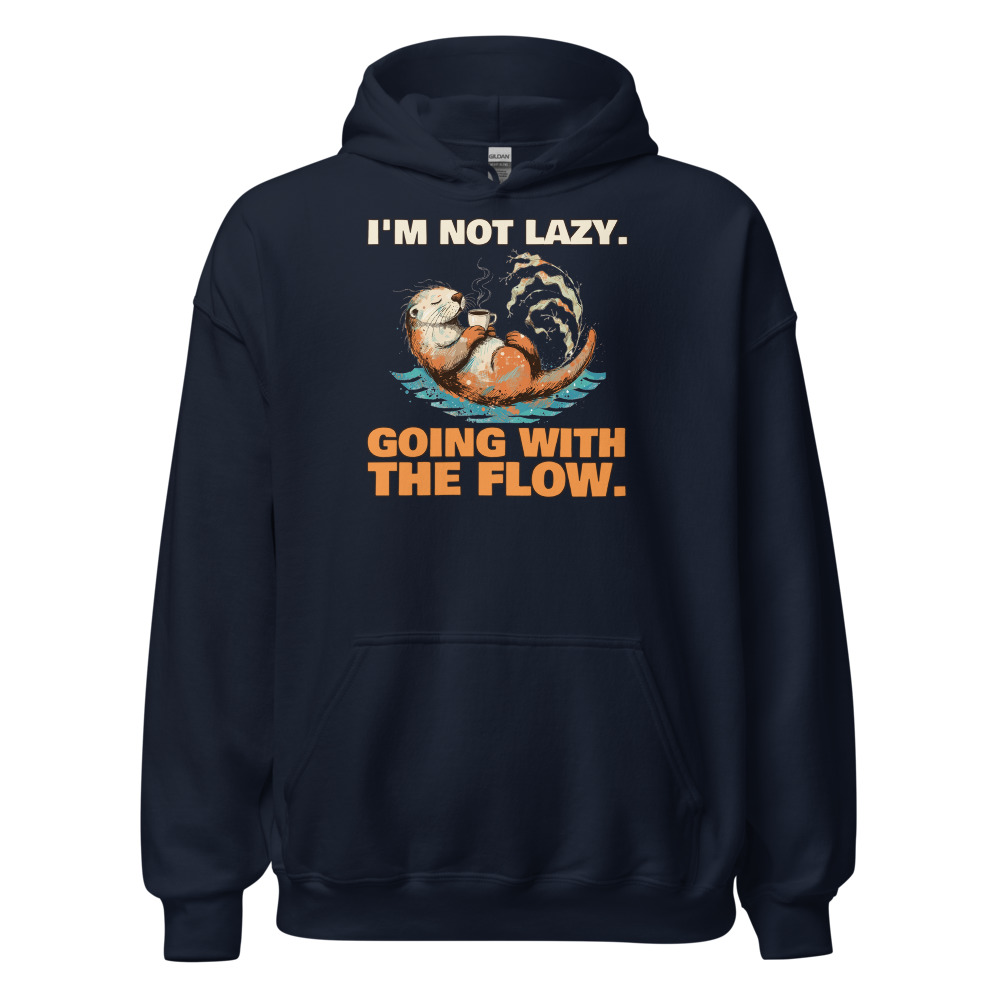
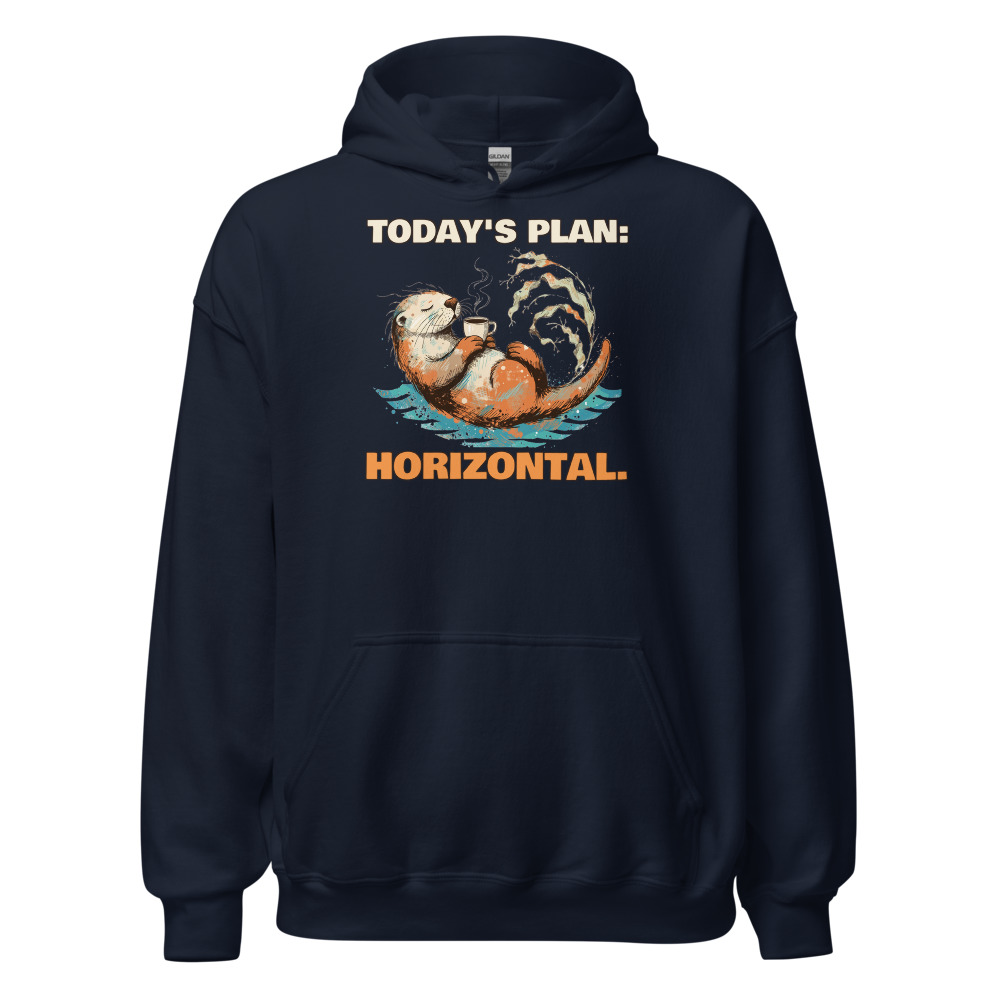
[C] review 397 (redo)
Claude-Session: https://claude.ai/code/session_01CCHcDj8LcJJ8qUPtKE3cvn

Changed region(s): [[0.341, 0.217, 0.651, 0.496]]

diff --git a/designs/c397/make.py b/designs/c397/make.py
@@ -1,9 +1,9 @@
 import sys; sys.path.insert(0,'.')
 from designs.lib import *
 im=Image.open('docs/print-files/397-currently-drifting.png').convert('RGBA'); W=im.width
-art=im.crop((0,685,W,3450)); art=art.crop(art.getbbox()); art=art.resize((int(art.width*0.8),int(art.height*0.8)),Image.LANCZOS)
+art=im.crop((0,685,W,3450)); art=art.crop(art.getbbox()); art=art.resize((int(art.width*0.92),int(art.height*0.92)),Image.LANCZOS)
 DK=(42,28,22,255); ORG=(224,112,44,255); DORG=(176,76,24,255); TEAL=(26,110,124,255)
 for tag,c1,k1,c2,k2,bg in (('sand',DK,CREAM,DORG,CREAM,(214,196,160,255)),('navy',CREAM,DK,(246,150,70,255),DK,(38,50,88,255))):
-    h1=line("I'M NOT LAZY.",'bowlby',0.97,W,c1,k1,kw=29); pa=line("GOING WITH",'bowlby',0.97,W,c2,k2,kw=29); pb=line("THE FLOW.",'bowlby',0.97,W,c2,k2,kw=29)
+    h1=line("TODAY'S PLAN:",'bowlby',0.97,W,c1,k1,kw=29); pa=line("HORIZONTAL.",'bowlby',0.985,W,c2,k2,kw=29); pb=pa
     print(tag,'headline px',h1.width,'punch px',pa.width,pb.width,'heights',h1.height,pa.height,pb.height,'art',art.size)
-    out=lockup(art,W,[h1],[pa,pb],f'397-v2-flow-{tag}',{tag:bg}); print(out.size,out.height/out.width)
+    out=lockup(art,W,[h1],[pa],f'397-v3-plan-{tag}',{tag:bg}); print(out.size,out.height/out.width)

diff --git a/docs/pipeline/397-otter-hoodie-currently-drifting.md b/docs/pipeline/397-otter-hoodie-currently-drifting.md
@@ -1,4 +1,4 @@
-status: BUILDING [C] 2026-10-20 08:25
+status: REVIEW
 shopify: gid://shopify/Product/15363406168368
 lane: C
 type: new
@@ -34,3 +34,4 @@ kd: 34
 - 2026-10-20 08:45 UTC director: REDO from docs/review/397.jpg (product stays ACTIVE; fix in place).
   1. R3.7.2 / R3.13: I'M NOT LAZY. is a stock template ("I'm not lazy, I'm ..." is on hundreds of listings) and GOING WITH THE FLOW. only describes the floating otter. Side by side with Oops. Anyway. / Wildly Low Maintenance it is weaker. Write 5 new lines in the otter's own deadpan voice (it is floating with a coffee: the joke is how unbothered it is) and keep the one a stranger laughs at in 3 seconds. Same art, $0.
   2. Keep the current type treatment (it works): punch at least as wide as the headline, log both widths (card 7h); retitle (card 7i).
+- 2026-10-20 08:30 UTC builder [C]: REDO round 2 per the director's 08:45 note (I'M NOT LAZY. is a stock template; GOING WITH THE FLOW. only describes the picture). 5 new lines in the otter's own unbothered voice, each compared with Oops. Anyway. and Wildly Low Maintenance: "TODAY'S PLAN: / HORIZONTAL." (kept: a schedule that is a posture, the otter is the proof, wearer in on it), "URGENT? / NOT FROM HERE.", "UNREAD EMAILS: 47. / CURRENT MOOD: FLOAT.", "I'LL GET TO IT. / EVENTUALLY.", "HOLDING MY COFFEE. / NOT MY COMPOSURE.". Same art and type treatment (Bowlby One both lines). Measured ink widths (card 7h): headline TODAY'S PLAN: 3318 px / punch HORIZONTAL. 3349 px (101%; punch also taller, 379 vs 331 px). Light-file (R5.3.8): Sand file 1090256464 (headline dark brown with cream keyline, punch burnt orange), Navy file 1090256642 (headline cream, punch light orange); docs/print-files/397-v3-plan-sand.png / -navy.png; print 3420 x 3325, FW 1500 TOP 0 (about 1,460 px), 12/12 relinked (verified on the API). 2 fronts replaced in place, read at phone size. Retitled (card 7i): "Unisex Otter – Today's Plan: Horizontal Hoodie" (handle unchanged); copy, FAQ and SEO rewritten. fal $0.

diff --git a/docs/intake-log.md b/docs/intake-log.md
@@ -9,6 +9,7 @@ RUNNING director since 2026-10-20 07:17 UTC
 RUNNING lane B since 2026-10-20 07:29 UTC
 2026-10-20 08:00 UTC — [E] Builder run: redid #608 Women's Pickleball tee (line + type: POLITE SMILE. / PERSONAL VENDETTA., same serene-lady art, Bevan, dark-ink file on 5 light colors, 30/30 synced). REVIEW. fal $0.
 RUNNING lane C since 2026-10-20 07:00 UTC
+2026-10-20 08:30 UTC — [C] Builder run: redid #397 Unisex Otter hoodie round 2 (director note: new line TODAY'S PLAN: / HORIZONTAL., headline 3318 px / punch 3349 px, Sand file 1090256464 + Navy file 1090256642, FW 1500 TOP 0, 12/12 relinked, 2 fronts replaced in place, retitled + copy + SEO updated). REVIEW. fal $0.
 2026-10-20 08:25 UTC — [C] Builder run: redid #402 Men's Fishing heavyweight hoodie (new line + type: SIX HOURS. / STARING AT A HOLE., headline 3278 px / punch 3337 px, Bowlby + Alfa, same ice-fishing art, Sandstone file 1090254838 + Storm Blue file 1090254866, FW 1600 TOP 20, 14/14 relinked, 2 fronts replaced in place, title + copy + SEO updated). REVIEW. fal $0.
 2026-10-20 08:18 UTC — [C] Builder run: redid #397 Unisex Otter hoodie (new line + type: I'M NOT LAZY. / GOING WITH THE FLOW., headline 3300 px / punch 3311 px, Bowlby One, same otter art, Sand file 1090252596 + Navy file 1090252654, FW 1500 TOP 0, 12/12 relinked, 2 fronts replaced in place, title + copy + SEO updated). REVIEW. fal $0.
 2026-10-20 08:12 UTC — [C] Builder run: redid #368 Unisex Western heavyweight hoodie (new line + type: ALL LUCK. / NO HORSE SENSE., punch full width 3189 px, Alfa Slab, same horseshoe art, Sandstone file 1090249416 + Storm Blue file 1090249454, FW 1600 TOP 20, 14/14 relinked, 2 fronts replaced in place, title + copy + SEO updated). REVIEW. fal $0.
